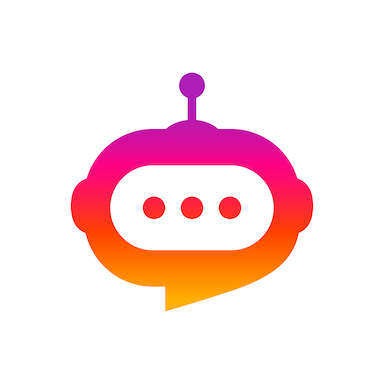
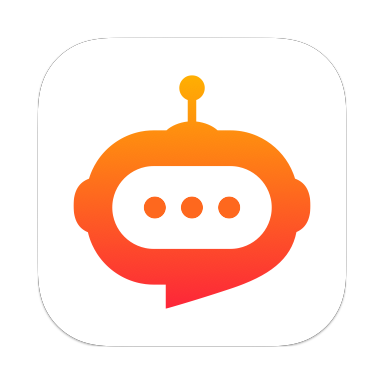
Update color brand

diff --git a/css/styles.css b/css/styles.css
@@ -10834,7 +10834,7 @@ html {
 }
 
 .bg-gradient-primary-to-secondary {
-  background: linear-gradient(45deg, rgb(158, 45, 176), rgb(231, 55, 99), rgb(242, 175, 61)) !important;
+  background: linear-gradient(45deg, rgb(253, 38, 57), rgb(255, 175, 2)) !important;
 }
 
 .font-alt {
@@ -10842,7 +10842,7 @@ html {
 }
 
 .text-gradient {
-  background: -webkit-linear-gradient(rgb(158, 45, 176), rgb(231, 55, 99), rgb(242, 175, 61));
+  background: -webkit-linear-gradient(rgb(253, 38, 57), rgb(255, 175, 2));
   background-clip: text;
   -webkit-background-clip: text;
   -webkit-text-fill-color: transparent;

diff --git a/privacy.html b/privacy.html
@@ -14,8 +14,6 @@
         <meta name="viewport" content="width=device-width, initial-scale=1, shrink-to-fit=no" />
         <title>Social Copilot - Privacy Policy</title>
         <link rel="icon" href="favicon.ico" sizes="48x48">
-        <link rel="icon" type="image/png" href="assets/favicon-32x32.png" sizes="32x32">
-        <link rel="icon" type="image/png" href="assets/favicon-16x16.png" sizes="16x16">
         <link rel="icon" type="image/svg+xml" href="assets/icon.svg">
         <link rel="apple-touch-icon" href="assets/apple-touch-icon.png">
         <!-- Bootstrap icons-->

diff --git a/index.html b/index.html
@@ -19,8 +19,6 @@
         <meta name="author" content="Anastasiia Danilova">
         <meta name="robots" content="index, follow">
         <link rel="icon" href="favicon.ico" sizes="48x48">
-        <link rel="icon" type="image/png" href="assets/favicon-32x32.png" sizes="32x32">
-        <link rel="icon" type="image/png" href="assets/favicon-16x16.png" sizes="16x16">
         <link rel="icon" type="image/svg+xml" href="assets/icon.svg">
         <link rel="apple-touch-icon" href="assets/apple-touch-icon.png">
         <!-- Bootstrap icons-->

diff --git a/faq.html b/faq.html
@@ -15,8 +15,6 @@
     <meta name="viewport" content="width=device-width, initial-scale=1, shrink-to-fit=no" />
     <title>Social Copilot - FAQ</title>
     <link rel="icon" href="favicon.ico" sizes="48x48">
-    <link rel="icon" type="image/png" href="assets/favicon-32x32.png" sizes="32x32">
-    <link rel="icon" type="image/png" href="assets/favicon-16x16.png" sizes="16x16">
     <link rel="icon" type="image/svg+xml" href="assets/icon.svg">
     <link rel="apple-touch-icon" href="assets/apple-touch-icon.png">
     <!-- Bootstrap icons-->
